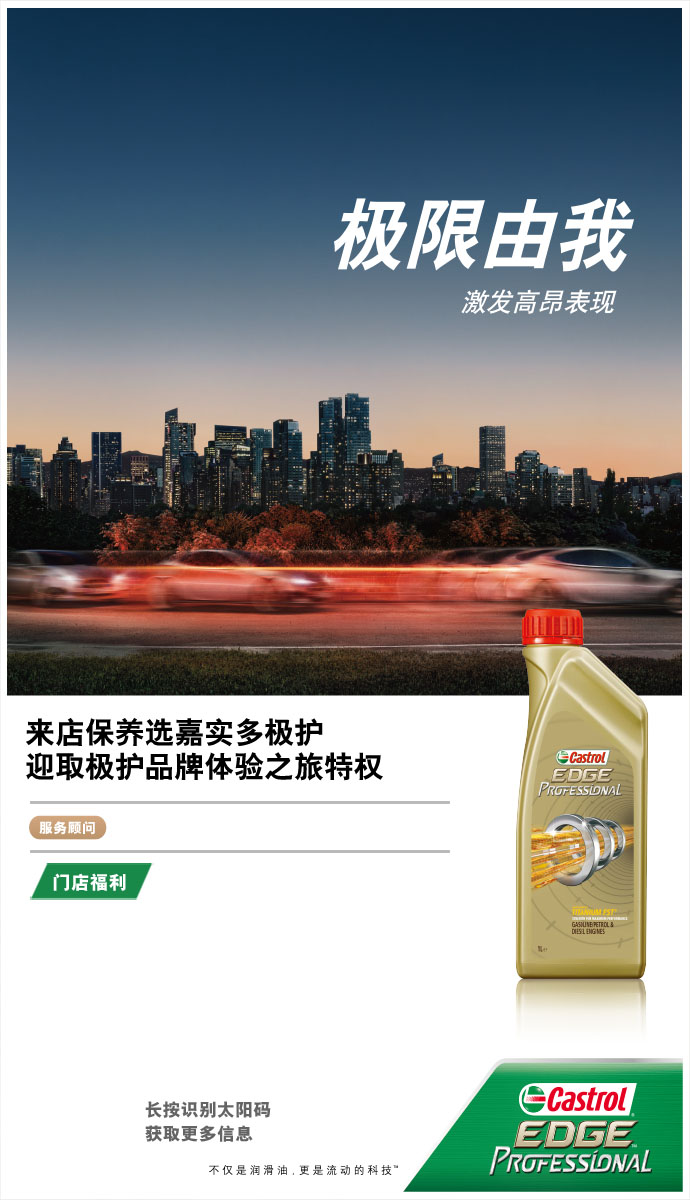
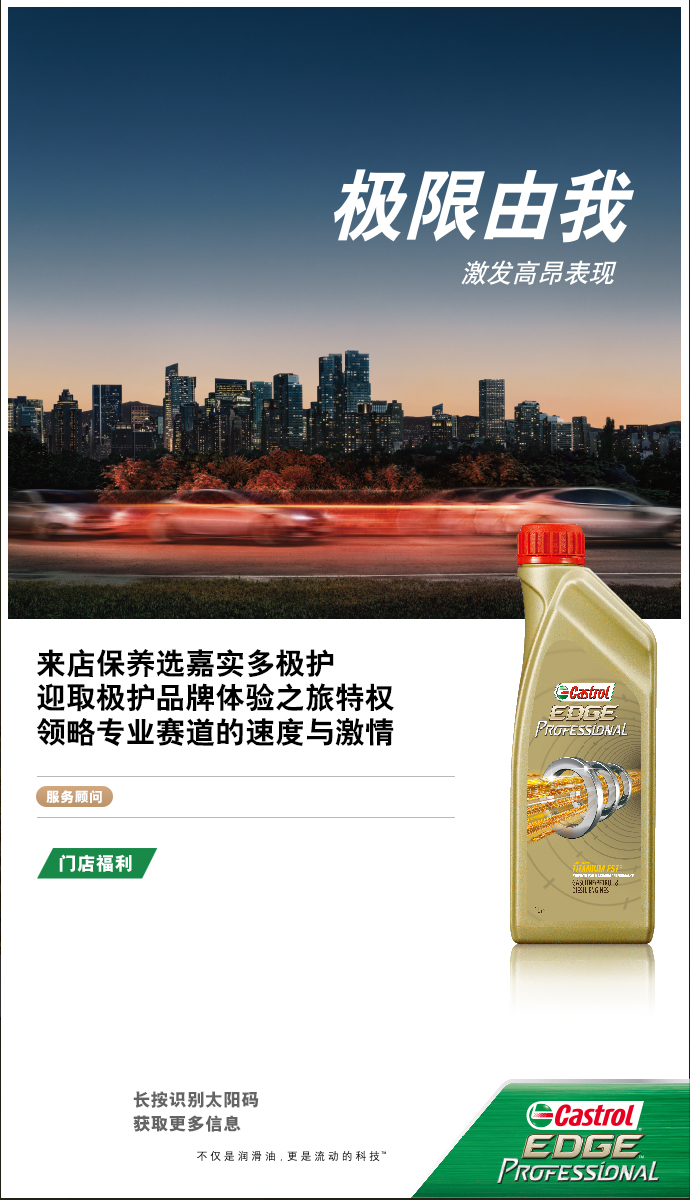
add status judge

diff --git a/src/pages/client/index.vue b/src/pages/client/index.vue
@@ -201,7 +201,7 @@ page {
       </view>
     </toast>
 
-    <consumerActivity @close.user='changeAgreement' wx:if="{{showAgreement}}"></consumerActivity>
+    <consumerActivity :isX.sync='isX' @close.user='changeAgreement' wx:if="{{showAgreement}}"></consumerActivity>
 
     <!-- <agreement wx:if="{{}}"></agreement> -->
 
@@ -255,9 +255,9 @@ export default class Waiterhome extends wepy.page {
     consumerActivity,
   };
 
-  async onLoad(options) {
+  onLoad(options) {
     let gd = this.$parent.globalData,
-        referer = wx.getStorageSync('clientReferer'),
+        code = wx.getStorageSync('code'),
         token = wx.getStorageSync('token');
     gd.tabIndex = 0;
     gd.clientTabBarList[0].path = `/pages/client/index?scene=${options.scene}&status=0`;
@@ -267,15 +267,11 @@ export default class Waiterhome extends wepy.page {
     // 海报二维码进入
     if(options.scene === '0'){ wx.setStorageSync('clientReferer', 'poster'); return ; }
 
-    //微信用户登录换取token，并将token存入本地缓存中
-    // wx.showLoading({ title: 'Loading...' });
-    // const userInfo = await signIn(false);
-    // // console.error('user', userInfo);
-
-    // if (userInfo.data.code === 1) {
-    //   let auth = userInfo.header.Authorization;
-    //   wx.setStorageSync("token", auth);
-    // }
+    if(code == '108'){
+      this.type = 'goDraw';
+      this.btnTitle = '立即抽奖';
+      return ;
+    }
 
     // 抽奖码进入
     if(options.scene && options.scene.indexOf('*') !== -1){
@@ -290,7 +286,8 @@ export default class Waiterhome extends wepy.page {
   }
 
   async onShow() {
-    let referer = wx.getStorageSync('clientReferer');
+    let referer = wx.getStorageSync('clientReferer'),
+        code = wx.getStorageSync('code');
 
     let sys = wx.getSystemInfoSync();
     this.isX = sys.screenHeight > 800;
@@ -303,7 +300,7 @@ export default class Waiterhome extends wepy.page {
       wx.setStorageSync("token", auth);
     }
 
-    if(referer !== 'poster' && this.status !== '0'){
+    if(referer !== 'poster' && this.status !== '0' && code != '108'){
       this.showToast = true;
     }
 
@@ -350,7 +347,6 @@ export default class Waiterhome extends wepy.page {
         }
 
         if(res.data){
-          //TODO: 新用户和抽奖用户进sa跳转至用户首页怎么区分
           // if(res.code === 108){
           //   this.type = 'goDraw';
           //   this.btnTitle = '立即抽奖';

diff --git a/src/pages/limit/record.vue b/src/pages/limit/record.vue
@@ -26,7 +26,7 @@ page {
 
 .main_wrap{
   position: relative;
-  padding: 120rpx 15rpx 0;
+  padding: 40rpx 15rpx 0;
   /* left: calc(50% - 310rpx); */
   /* width: 620rpx; */
 }
@@ -47,11 +47,11 @@ page {
 .status, .status_value{
   flex-basis: 10rpx;
   flex-grow: 5;
-  text-align: left;
+  /* text-align: left; */
 }
 .status{
-  position: relative;
-  left: 68rpx;
+  /* position: relative; */
+  /* left: 68rpx; */
 }
 
 .rank_list{
@@ -77,9 +77,10 @@ page {
 
 .btn_wrap{
   position: relative;
-  width: 300rpx;
-  height: 80rpx;
-  margin: 20rpx auto 0;
+  width: 100rpx;
+  height: 60rpx;
+  margin: 0 0 40rpx 10rpx;
+  /* margin: 0rpx auto 40rpx; */
 }
 .i_btn{
   width: 100%;
@@ -87,11 +88,14 @@ page {
 }
 .btn_ctn{
   position: absolute;
-  top: 20rpx;
-  left: calc(50% - 70rpx);
-  width: 140rpx;
-  font-size: 34rpx;
+  top: 0;
+  left: 0;
+  width: 100%;
+  height: 100%;
+  line-height: 60rpx;
+  font-size: 30rpx;
   font-weight: bold;
+  text-align: center;
 }
 
 .scroll_wrap{
@@ -128,6 +132,11 @@ page {
 
 
     <view class="main_wrap s_fc_1">
+
+      <view class='btn_wrap' @tap='goBack'>
+        <image class='i_btn' src='../../images/btn1.png' mode='aspectFill' />
+        <view class='btn_ctn s_fc_3'>返回</view>
+      </view>     
 
       <view class='rank_title flex s_fc_1 s_bg_2'>
         <view class='upload_time'>上传时间</view>
@@ -209,6 +218,7 @@ export default class Waiterhome extends wepy.page {
   onShow() {}
 
   methods = {
+    goBack(){ wx.navigateBack({ delta: 1 }); },
     goError(index){
       let item = this.rankList[index];
 

diff --git a/src/pages/limit/index.vue b/src/pages/limit/index.vue
@@ -238,6 +238,7 @@ export default class Waiterhome extends wepy.page {
     qrcode: '',
     error: null,
     canSubmit: true,
+    status: false,
   };
 
   components = {
@@ -257,7 +258,9 @@ export default class Waiterhome extends wepy.page {
       this.initError(param.error);
     }else if(param.type === 'reupload'){
       this.initReUpload();
-    }   
+    }else{
+      this.getStatus();
+    }
   }
 
   onShow() {}
@@ -281,6 +284,8 @@ export default class Waiterhome extends wepy.page {
       let url;
 
       if(!this.img) return wx.showModal({ content: '请选择图片', showCancel: false });
+
+      if(!this.status) return wx.showModal({ content: '审核还未通过，暂时无法上传工单', showCancel: false });
 
       if(!this.canSubmit) return ;
       this.canSubmit = false;
@@ -363,6 +368,19 @@ export default class Waiterhome extends wepy.page {
     this.btnTitle = '重传证明文件';
     this.img = error.url;
     this.error = error;
+  }
+
+  async getStatus(){
+    let res = await req.get(`/castrol/api/v1/seller/status`, {}, { 'Authorization': wx.getStorageSync('token'), })
+
+    // console.error(res);
+    if(res && res.code === 1){
+      this.status = res.data;
+    }else{
+      wx.showModal({ content: res.moreInfo, showCancel: false });
+    }
+
+    this.$apply();
   }
 
   async getResult(param){

diff --git a/src/components/consumerActivity.vue b/src/components/consumerActivity.vue
@@ -69,7 +69,7 @@
 }
 
 .x_box{
-  margin: 280rpx 0 0;
+  margin: 180rpx auto 0;
 }
 
 .flex{
@@ -162,6 +162,7 @@ import wepy from "wepy";
 export default class Rule extends wepy.component{
   props = {
     ruleType: String,
+    isX: Boolean,
   };
 
   watch = {
@@ -169,7 +170,7 @@ export default class Rule extends wepy.component{
       console.error(v1, v2);
     },
     isX(v1, v2){
-      console.error(v1, v2);
+      // console.error(v1, v2);
     }
   }
 
@@ -191,14 +192,7 @@ export default class Rule extends wepy.component{
                    ],
     statmentContent_2: ['备注：本次活动总体中奖率20%。'],                     
     statmentContent_3: ['本活动规则不构成任何合同要约，本次活动最终解释权归嘉实多所有。'],                     
-    isX: false,
   };
-
-  onShow(){
-    let sys = wx.getSystemInfoSync();
-    console.error(sys);
-    this.isX = sys.screenHeight > 800;
-  }
 
   methods = {
     close(){

diff --git a/src/pages/client/writeInfo.vue b/src/pages/client/writeInfo.vue
@@ -174,7 +174,7 @@ page {
       </view>
     </view>
 
-    <agreement @close.user='changeAgreement' wx:if="{{showAgreement}}"></agreement>
+    <agreement :isX.sync='isX' @close.user='changeAgreement' wx:if="{{showAgreement}}"></agreement>
 
     <!-- toast/弹窗 -->
     <toast wx:if="{{showToast}}" @close.user='closeToast'>
@@ -228,6 +228,7 @@ export default class Waiterhome extends wepy.page {
     goods: null,
     agree: false,
     showAgreement: false,
+    isX: false,
   };
 
   components = {
@@ -243,6 +244,9 @@ export default class Waiterhome extends wepy.page {
     gd.tabIndex = -1;
     // gd.clientTabBarList[0].path = `/pages/client/index?scene=${param.orderId}`;
     this.tabBarList = gd.clientTabBarList;
+
+    let sys = wx.getSystemInfoSync();
+    this.isX = sys.screenHeight > 800;
 
     try{
       goods = JSON.parse(decodeURIComponent(param.goods)); 

diff --git a/src/pages/appointment/poster.vue b/src/pages/appointment/poster.vue
@@ -276,13 +276,13 @@ export default class Waiterhome extends wepy.page {
 
       ctx.setFontSize(11);
       ctx.setFillStyle('#188948');
-      ctx.fillText(`${user.name}  ${user.phone}`, 65, 424);
+      ctx.fillText(`${user.name}  ${user.phone}`, 65, 410);
 
       ctx.setFontSize(11);
       ctx.setFillStyle('#c69d75');
-      ctx.fillText(`${value[0]}`, 14, 470);
-      ctx.fillText(`${value[1]}`, 14, 484);
-      ctx.fillText(`${value[2]}`, 14, 498);
+      ctx.fillText(`${value[0]}`, 14, 460);
+      ctx.fillText(`${value[1]}`, 14, 474);
+      ctx.fillText(`${value[2]}`, 14, 488);
 
       let res = await mp.getImg('https://castrolmini.mgcc.com.cn/qn/Fv2ZBu1lEG5m224vKqbcxM_CngjB');
       // console.error('getImg res:', res.errMsg);

diff --git a/src/pages/waiterHome.vue b/src/pages/waiterHome.vue
@@ -358,9 +358,10 @@ export default class Waiterhome extends wepy.page {
         const res = await req.post(url, param, { Authorization: wx.getStorageSync('token') });
         console.error('login', res.data);
 
-        // 已抽奖用户且没有扫码进入
-        if(res.code == 108){
+        // 用户且没有扫码进入(108: 已抽奖用户)
+        if(res.code == 108 || res.code == 109){
           // console.error(res);
+          wx.setStorageSync('code', res.code);
           return this.navigateTo(`/pages/client/prizeList`);
         }
 

diff --git a/src/components/agreement.vue b/src/components/agreement.vue
@@ -58,11 +58,15 @@
 .m_top2 {
   margin-top: 50rpx;
 }
+
+.x_box{
+  margin: 80rpx auto 0;
+}
 </style>
 
 <template>
     <view class='agreement_modal' @tap='close'>
-      <view class="agreement_box">
+      <view class="agreement_box {{isX ? 'x_box' : ''}}">
 
         <view class='close_wrap'>
           <image class='i_close' src='../images/global/close.png' mode='aspectFill' />
@@ -94,7 +98,7 @@
 import wepy from "wepy";
 export default class BackTop extends wepy.component {
   props = {
-
+    isX: Boolean
   };
   data = {
   };

diff --git a/src/pages/appointment/index.vue b/src/pages/appointment/index.vue
@@ -279,7 +279,7 @@ export default class Waiterhome extends wepy.page {
       this.infoBackup = this.info = v;
     },
     copy(){
-      let data = this.info;
+      let data = `来店保养选嘉实多极护\r\n赢取极护品牌体验之旅特权\r\n领略专业赛道的速度与激情\r\n${this.info}`;
 
       wx.setClipboardData({ 
         data, 
